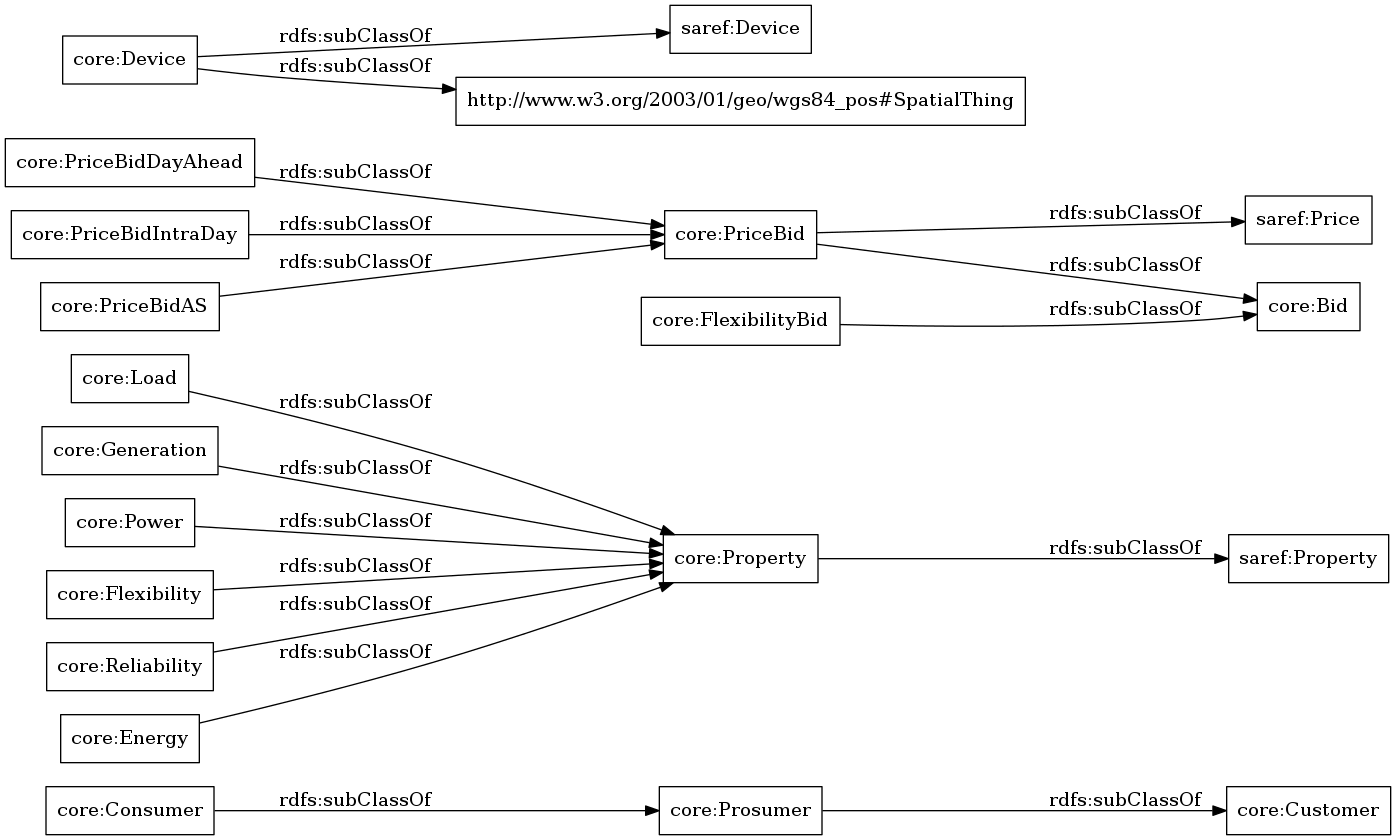
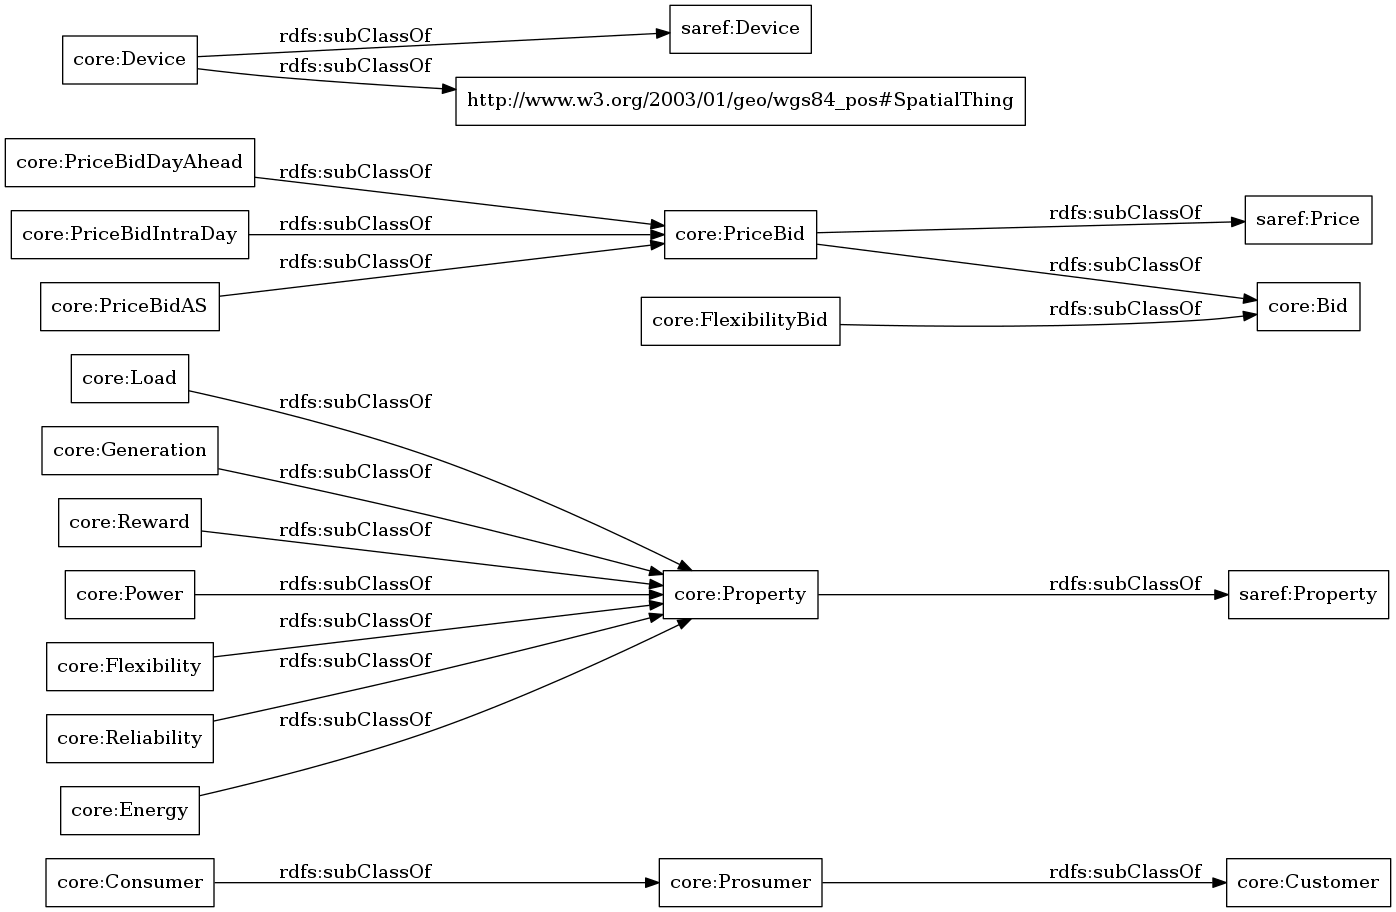
automated change

Changed region(s): [[0.0, 0.1548, 1.0, 1.0], [0.0308, 0.0, 0.7393, 0.1548]]

diff --git a/OnToology/ontology/delta.ttl/documentation/sections/crossref-en.html b/OnToology/ontology/delta.ttl/documentation/sections/crossref-en.html
@@ -48,7 +48,7 @@ This section provides details for each class and property defined by DELTA ontol
       </li>
       <li>
          <a href="#https://w3id.org/saref#Measurement" title="https://w3id.org/saref#Measurement">
-            <span>Measurement</span>
+            <span>measurement</span>
          </a>
       </li>
       <li>
@@ -87,7 +87,7 @@ This section provides details for each class and property defined by DELTA ontol
       </li>
       <li>
          <a href="#Reliability" title="http://delta.linkeddata.es/def/core#Reliability">
-            <span>Reliability</span>
+            <span>reliability</span>
          </a>
       </li>
       <li>
@@ -507,6 +507,7 @@ This section provides details for each class and property defined by DELTA ontol
             <sup class="type-c" title="class">c</sup>, <a href="#Generation" title="http://delta.linkeddata.es/def/core#Generation">Generation</a>
             <sup class="type-c" title="class">c</sup>, <a href="#Load" title="http://delta.linkeddata.es/def/core#Load">Load</a>
             <sup class="type-c" title="class">c</sup>, <a href="#Power" title="http://delta.linkeddata.es/def/core#Power">Power</a>
+            <sup class="type-c" title="class">c</sup>, <a href="#Reward" title="http://delta.linkeddata.es/def/core#Reward">Reward</a>
             <sup class="type-c" title="class">c</sup>, <a href="#Reliability" title="http://delta.linkeddata.es/def/core#Reliability">reliability</a>
             <sup class="type-c" title="class">c</sup>
          </dd>
@@ -577,6 +578,13 @@ This section provides details for each class and property defined by DELTA ontol
       <div class="comment">
          <span class="markdown">Reward associated to the customers that is given after using the engagement tools</span>
       </div>
+      <dl class="description">
+         <dt>has super-classes</dt>
+         <dd>
+            <a href="#Property" title="http://delta.linkeddata.es/def/core#Property">Property</a>
+            <sup class="type-c" title="class">c</sup>
+         </dd>
+      </dl>
    </div>
    <div class="entity" id="Signal">
       <h3>Signal<sup class="type-c" title="class">c</sup>

diff --git a/OnToology/ontology/delta.ttl/documentation/sections/overview-en.html b/OnToology/ontology/delta.ttl/documentation/sections/overview-en.html
@@ -48,7 +48,7 @@ This ontology has the following classes and properties.</span>
    </li>
    <li>
       <a href="#https://w3id.org/saref#Measurement" title="https://w3id.org/saref#Measurement">
-         <span>Measurement</span>
+         <span>measurement</span>
       </a>
    </li>
    <li>
@@ -87,7 +87,7 @@ This ontology has the following classes and properties.</span>
    </li>
    <li>
       <a href="#Reliability" title="http://delta.linkeddata.es/def/core#Reliability">
-         <span>Reliability</span>
+         <span>reliability</span>
       </a>
    </li>
    <li>
